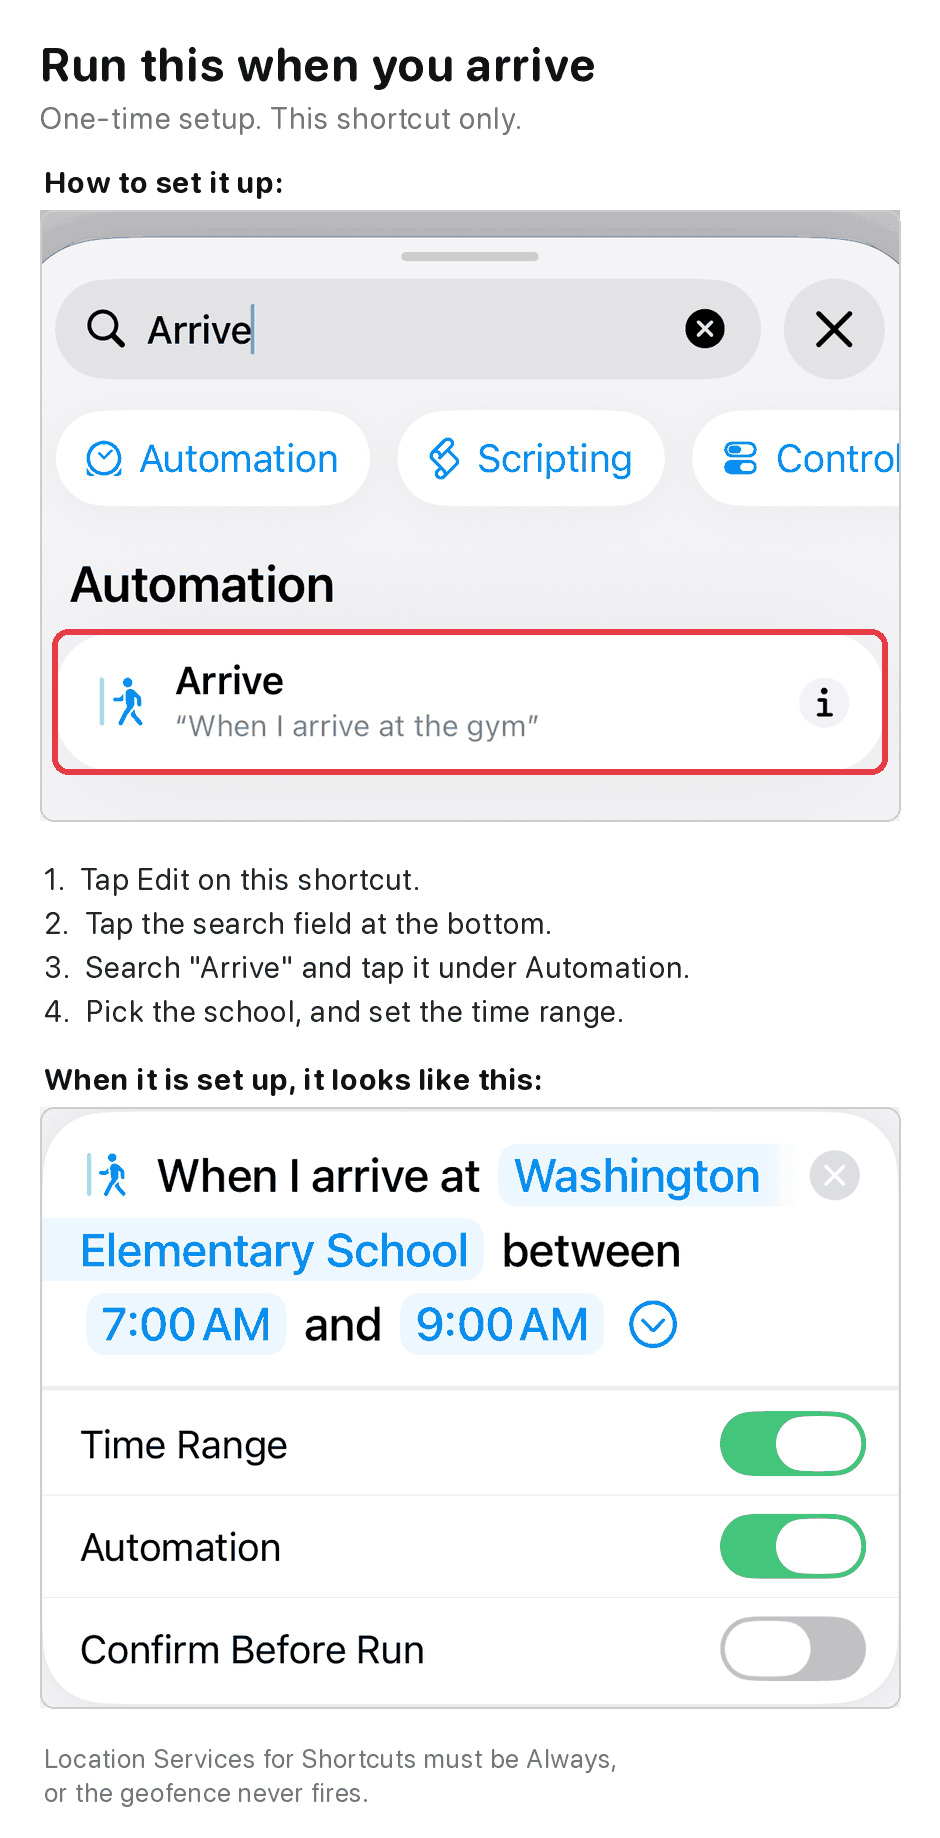
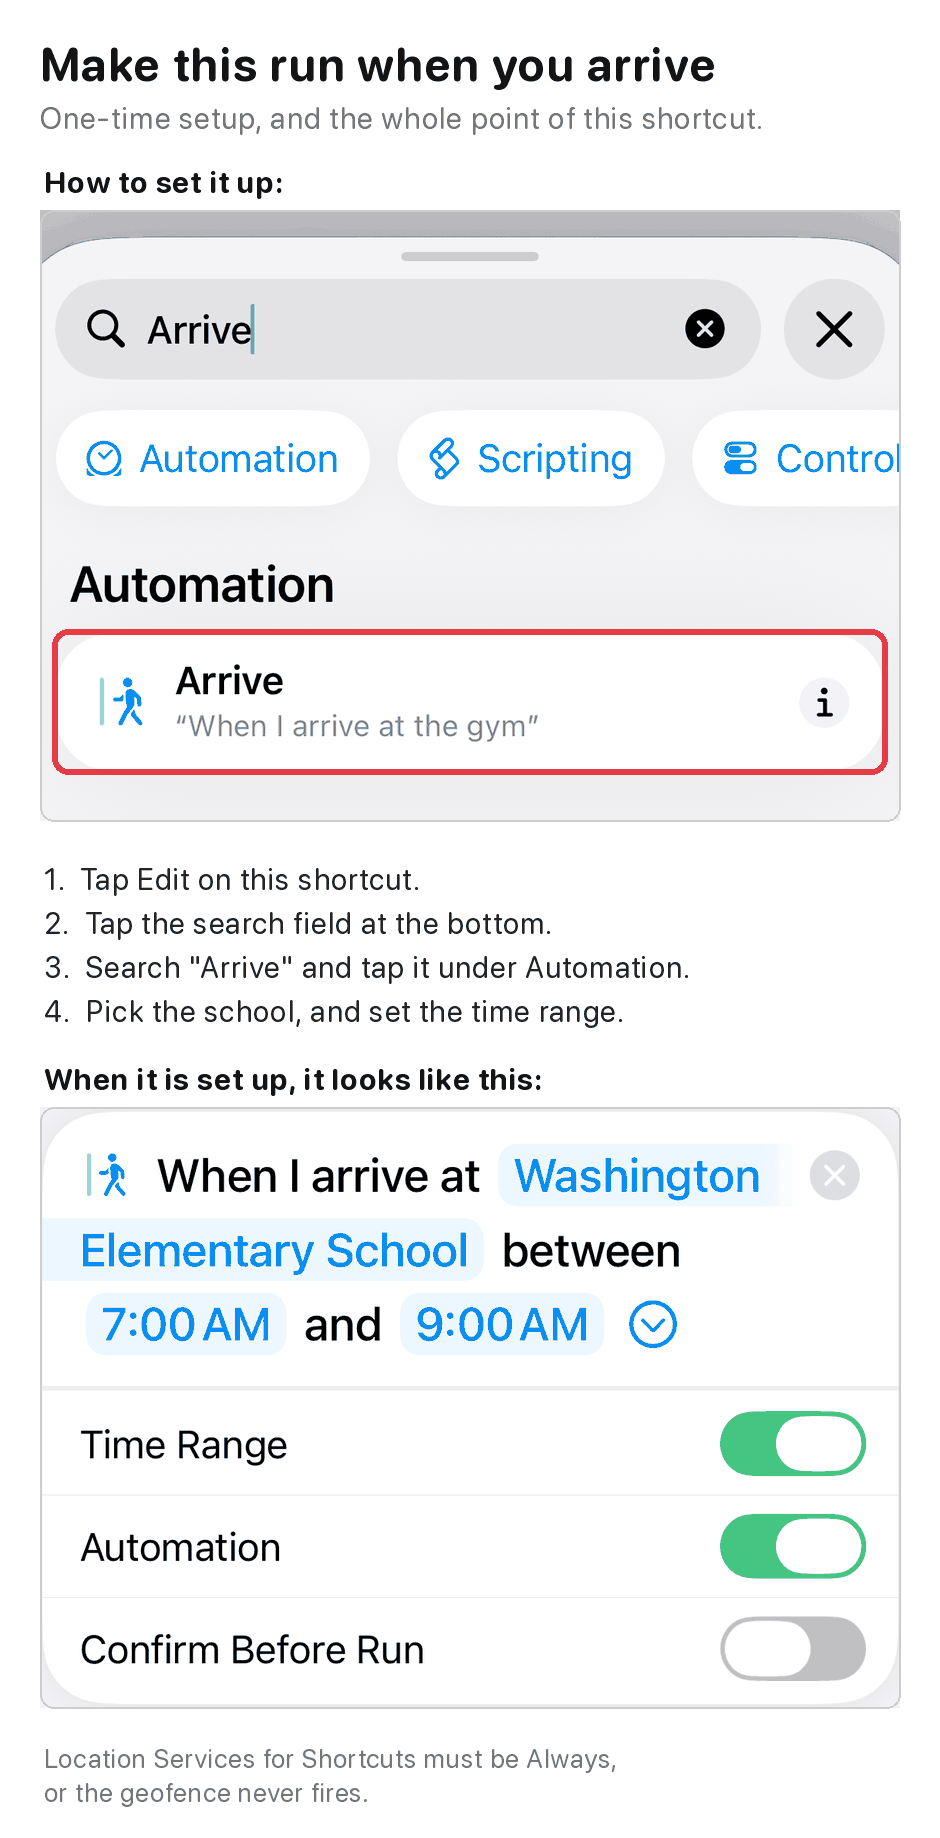
💄 style(diagrams): retitle the setup guides so they read as setup, not as an order
"Run this when you arrive" parsed as an instruction to run the shortcut at the moment of arrival, which is the opposite of what the guide is for. "Make this run when you arrive" points the imperative at the configuring instead, and the same verb now carries both wrappers.

The subtitle says the setup is expected rather than optional: a wrapper with no trigger attached does nothing you could not do by running `Brightwheel Attendance` by hand, so skipping it leaves no reason to have installed the wrapper.

Claude-Session: https://claude.ai/code/session_017sMzJReUoznQFBgM6gf6BX

Changed region(s): [[0.0617, 0.031, 0.8021, 0.093]]

diff --git a/make_diagrams.py b/make_diagrams.py
@@ -40,13 +40,13 @@ PLAN = {
     "check-in": {
         "capture": "capture-arrive.png",
         "result": "capture-arrive-set.png",
-        "title": "Run this when you arrive",
+        "title": "Make this run when you arrive",
         "action": "Arrive",
     },
     "check-out": {
         "capture": "capture-leave.png",
         "result": "capture-leave-set.png",
-        "title": "Run this when you leave",
+        "title": "Make this run when you leave",
         "action": "Leave",
     },
 }
@@ -108,7 +108,11 @@ def draw(kind, spec):
     canvas = Image.new("RGB", (940, height), (255, 255, 255))
     d = ImageDraw.Draw(canvas)
     d.text((40, 36), spec["title"], font=font(46, True), fill=(20, 20, 20))
-    d.text((40, 100), "One-time setup. This shortcut only.",
+    # "Make this run ..." rather than "Run this ...", which parsed as an order
+    # to run the shortcut right now — the opposite of the point. The subtitle
+    # says the setup is expected: a wrapper with no trigger does nothing you
+    # could not do by running Brightwheel Attendance by hand.
+    d.text((40, 100), "One-time setup, and the whole point of this shortcut.",
            font=font(30), fill=(110, 110, 110))
 
     d.text((44, head_y), "How to set it up:", font=font(30, True),
